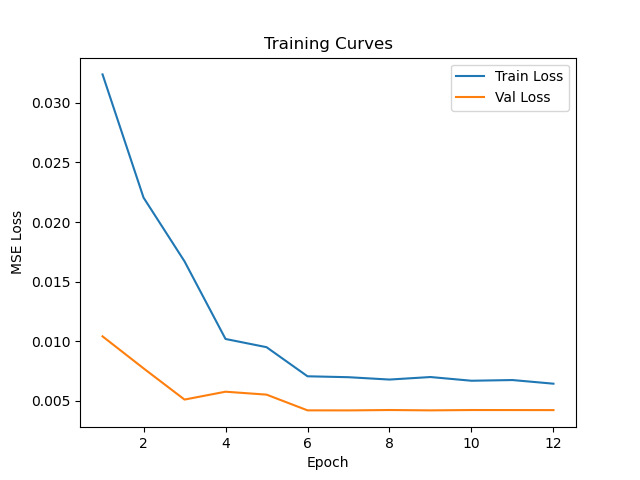
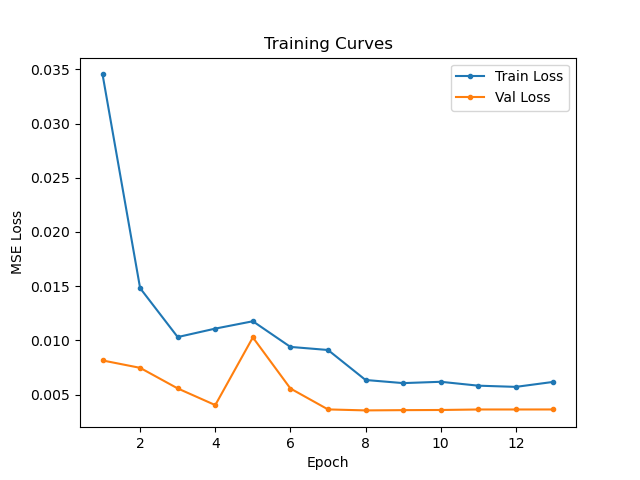
Implement a hybrid net combing GRU and 1d convolutional layers

diff --git a/LSTMBitcoin/core/model.py b/LSTMBitcoin/core/model.py
@@ -3,7 +3,7 @@ import time
 import logging
 import datetime as dt
 import numpy as np
-from tensorflow.keras.layers import Dense, Dropout, LSTM, SimpleRNN, TimeDistributed
+from tensorflow.keras.layers import Dense, Dropout, LSTM, SimpleRNN, TimeDistributed, Conv1D, GRU
 from tensorflow.keras.models import Sequential, load_model
 from tensorflow.keras.callbacks import EarlyStopping, ModelCheckpoint, ReduceLROnPlateau
 
@@ -41,6 +41,9 @@ class LSTMTimeSeriesModel:
             num_features = layer['num_features'] if 'num_features' in layer else None
             layer_type = layer['type'] if 'type' in layer else None
             return_seq = layer['return_seq'] if 'return_seq' in layer else None
+            kernel_size = layer['kernel_size'] if 'kernel_size' in layer else None
+            strides = layer['strides'] if 'strides' in layer else None
+            padding = layer['padding'] if 'padding' in layer else None
 
             if layer_type == 'Dense':
                 self.model.add(Dense(units=units, activation=activation))
@@ -58,10 +61,18 @@ class LSTMTimeSeriesModel:
                                          input_shape=(seq_len, num_features),
                                          return_sequences=return_seq
                                          ))
+            elif layer_type == 'Conv1D':
+                self.model.add(Conv1D(filters=units,
+                                      kernel_size=kernel_size,
+                                      strides=strides,
+                                      padding=padding,
+                                      input_shape=(seq_len, num_features)))
+            elif layer_type == 'GRU':
+                self.model.add(GRU(units=units, return_sequences=return_seq))
             elif layer_type == 'Dropout':
                 self.model.add(Dropout(rate=dropout))
 
-        metrics = [last_time_step_mse] if model_type == 'seq2seq' else None
+        metrics = [last_time_step_mse] if model_type in ['seq2seq', 'gruconv'] else None
         self.model.compile(loss=config['model']['loss'], optimizer=config['model']['optimizer'], metrics=metrics)
 
         time_taken = time.time() - now
@@ -109,14 +120,11 @@ class LSTMTimeSeriesModel:
 
     def predict_seq_to_seq(self, data):
         """
-
+        Making a sequence of predictions for each input sequence
         """
         logging.info('[MODEL]: Predicting Sequence-to-Sequence...')
-        print(data.shape)
         predicted = self.model.predict(data)
-        print(predicted.shape)
         predicted = predicted[:, -1, 0]
-        print(predicted.shape)
         predicted = np.reshape(predicted, (predicted.size,))
 
         return predicted

diff --git a/LSTMBitcoin/core/dataloader.py b/LSTMBitcoin/core/dataloader.py
@@ -6,7 +6,7 @@ class DataLoader:
     """
     Dataloader for creating the train and test sets
     """
-    def __init__(self, dataset_fp, train_size, col_name_list, m_type, fut_steps=1):
+    def __init__(self, dataset_fp, train_size, col_name_list, model_type, fut_steps=1):
         self.df = pd.read_csv(dataset_fp, infer_datetime_format=True, parse_dates=['Date'], index_col=['Date'])
         self.index_split = int(train_size*len(self.df))
         self.train_df = self.df[col_name_list].iloc[:self.index_split,:]
@@ -16,7 +16,7 @@ class DataLoader:
         self.train_len = len(self.train_data)
         self.test_len = len(self.test_data)
         self.fut_steps = fut_steps
-        self.m_type = m_type
+        self.model_type = model_type
     
     def get_train_data(self, lookback_window, normalize):
         """
@@ -29,13 +29,16 @@ class DataLoader:
             data_x.append(x)
             data_y.append(y)
 
-        if self.m_type == 'seq2seq':
+        if self.model_type in ['seq2seq', 'gruconv']:
             data_y = np.array(data_y)
             Y = np.empty((len(data_x), lookback_window, self.fut_steps))
-            # print(data_y.shape, Y.shape)
             for step_ahead in range(self.fut_steps):
                 Y[..., step_ahead] = data_y[..., step_ahead:step_ahead + lookback_window, 0]
             data_y = Y
+
+        if self.model_type == 'gruconv':
+            data_y = data_y[:, 3::2]
+
         return np.array(data_x), np.array(data_y)
     
     def get_test_data(self, lookback_window, normalize):
@@ -54,7 +57,7 @@ class DataLoader:
         x = data_windows[:, :-self.fut_steps]
         y = data_windows[:, -self.fut_steps, 0]
 
-        if self.m_type == 'seq2seq':
+        if self.model_type in ['seq2seq', 'gruconv']:
             y = data_windows[:, lookback_window:, 0]
         
         return x, y
@@ -66,11 +69,10 @@ class DataLoader:
         
         window = self.train_data[i:i+lookback_window]
         window = self.normalize_windows(window, single_window=True)[0] if normalize else window
-        # print(window.shape)
         x = window[:-self.fut_steps]
         y = window[-self.fut_steps, [0]]
 
-        if self.m_type == 'seq2seq':
+        if self.model_type in ['seq2seq', 'gruconv']:
             y = window[:, [0]]
         
         return x, y

diff --git a/LSTMBitcoin/main.py b/LSTMBitcoin/main.py
@@ -32,8 +32,8 @@ def main():
         os.path.join('data', configs['data']['filename']),
         configs['data']['train_test_split'],
         configs['data']['columns'],
-        m_type=configs['model']['type'],
-        fut_steps=configs['data']['fut_steps'] if configs['model']['type'] == 'seq2seq' else 1
+        model_type=configs['model']['type'],
+        fut_steps=configs['data']['fut_steps'] if configs['model']['type'] in ['seq2seq', 'gruconv'] else 1
     )
 
     # Train x and y
@@ -41,8 +41,6 @@ def main():
         lookback_window=configs['data']['sequence_length'] - 1,
         normalize=configs['data']['normalize']
     )
-
-    print(x.shape, y.shape)
 
     # Instantiating the LSTMTimeSeriesModel model defined in the core/model module
     model = LSTMTimeSeriesModel()
@@ -61,7 +59,7 @@ def main():
     )
 
     # Predicting the results point by point
-    if configs['model']['type'] == 'seq2seq':
+    if configs['model']['type'] in ['seq2seq', 'gruconv']:
         predictions = model.predict_seq_to_seq(x_test)
         y_test = y_test[:, 0]
     else:
